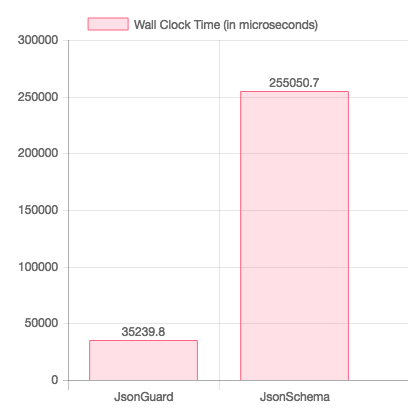
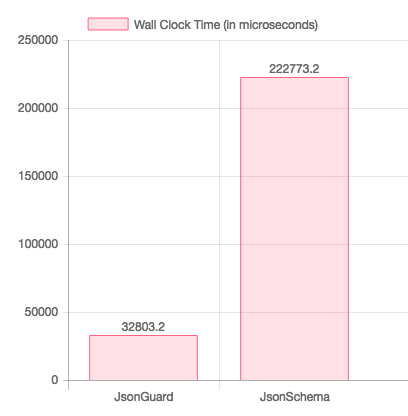
rebuild tests

diff --git a/README.md b/README.md
@@ -37,8 +37,8 @@ This test checks the performance of validating the meta schema which defines JSO
 
 | Validator | Wall Clock Time (in microseconds) |
 |-----------|:---------------------------------:|
-| JsonGuard | 35239.8 |
-| JsonSchema | 255050.7 |
+| JsonGuard | 32803.2 |
+| JsonSchema | 222773.2 |
 
 ### Memory usage
 
@@ -46,8 +46,8 @@ This test checks the performance of validating the meta schema which defines JSO
 
 | Validator | Peak Memory Usage (in bytes) |
 |-----------|:----------------------------:|
-| JsonGuard | 137595.2 |
-| JsonSchema | 180880 |
+| JsonGuard | 138288 |
+| JsonSchema | 180384 |
 
 ## Composer Schema Validaton
 
@@ -61,8 +61,8 @@ This test checks the performance of validating a composer.json file against the 
 
 | Validator | Wall Clock Time (in microseconds) |
 |-----------|:---------------------------------:|
-| JsonGuard | 9456.9 |
-| JsonSchema | 22026.5 |
+| JsonGuard | 9614.3 |
+| JsonSchema | 18412.3 |
 
 ### Memory usage
 
@@ -70,8 +70,8 @@ This test checks the performance of validating a composer.json file against the 
 
 | Validator | Peak Memory Usage (in bytes) |
 |-----------|:----------------------------:|
-| JsonGuard | 142152 |
-| JsonSchema | 210888 |
+| JsonGuard | 142616 |
+| JsonSchema | 209424 |
 
 ## Draft Four Compliance
 

diff --git a/reports/validating-the-meta-schema.md b/reports/validating-the-meta-schema.md
@@ -10,8 +10,8 @@ This test checks the performance of validating the meta schema which defines JSO
 
 | Validator | Wall Clock Time (in microseconds) |
 |-----------|:---------------------------------:|
-| JsonGuard | 35239.8 |
-| JsonSchema | 255050.7 |
+| JsonGuard | 32803.2 |
+| JsonSchema | 222773.2 |
 
 ### Memory usage
 
@@ -19,5 +19,5 @@ This test checks the performance of validating the meta schema which defines JSO
 
 | Validator | Peak Memory Usage (in bytes) |
 |-----------|:----------------------------:|
-| JsonGuard | 137595.2 |
-| JsonSchema | 180880 |
+| JsonGuard | 138288 |
+| JsonSchema | 180384 |

diff --git a/reports/validating-composer.md b/reports/validating-composer.md
@@ -10,8 +10,8 @@ This test checks the performance of validating a composer.json file against the 
 
 | Validator | Wall Clock Time (in microseconds) |
 |-----------|:---------------------------------:|
-| JsonGuard | 9456.9 |
-| JsonSchema | 22026.5 |
+| JsonGuard | 9614.3 |
+| JsonSchema | 18412.3 |
 
 ### Memory usage
 
@@ -19,5 +19,5 @@ This test checks the performance of validating a composer.json file against the 
 
 | Validator | Peak Memory Usage (in bytes) |
 |-----------|:----------------------------:|
-| JsonGuard | 142152 |
-| JsonSchema | 210888 |
+| JsonGuard | 142616 |
+| JsonSchema | 209424 |
